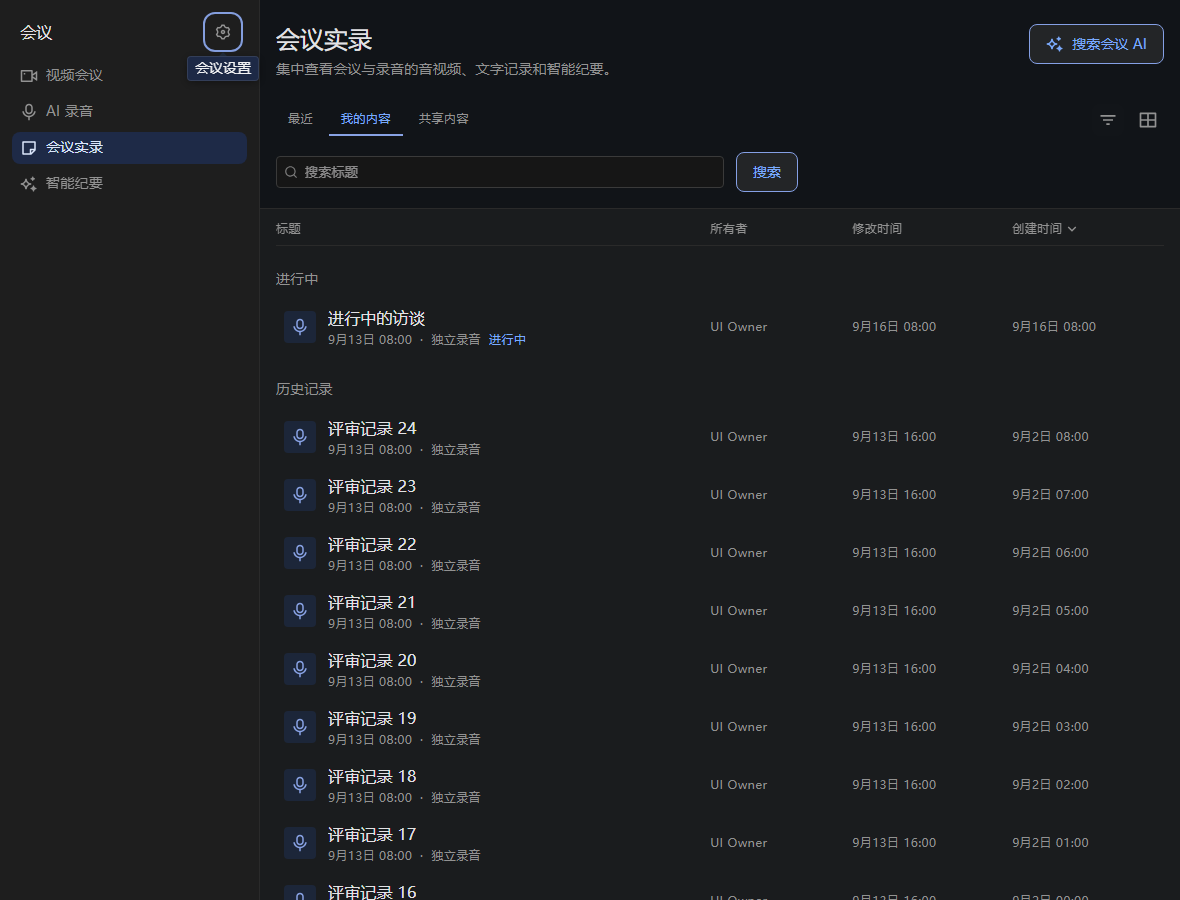
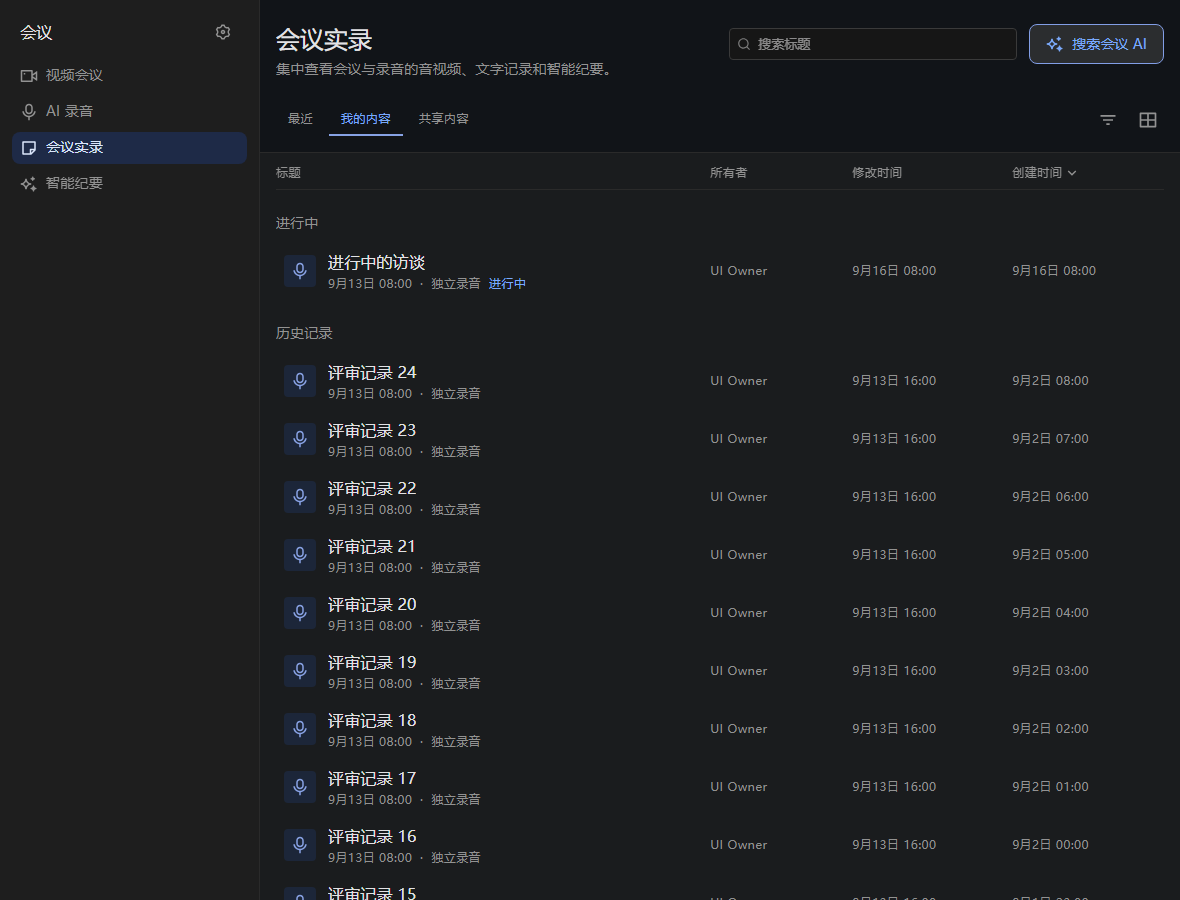
refactor(meetings): move the library search into the header row
会议实录 / 智能纪要的搜索框从「固定区第二行」搬进页头动作行,紧挨「搜索会议 AI」
左侧;「搜索」按钮删掉,提交改为回车(表单提交)。清空输入即撤销关键词筛选,行为
不变。

- 宽屏钉 18rem、窄屏放开收缩:390px 下这一行正好是「输入框 + 搜索会议 AI」,
  不折行也不横向溢出;宽屏也不再把标题块挤成两三行。
- 筛选面板原先挂在搜索表单里(靠 flexBasis 占满一行),搜索框搬走后表单只剩一个
  输入,面板独立落到工具栏下方(flexBasis → marginBottom),开合与两个原生 select
  的钉高不变。
- 文案键 library.searchButton 保留:记录工作区的「搜索整份逐字稿」还在用它。

验证:走查新增四条断言(没有搜索按钮 / 输入框在 AI 按钮左侧且同一行 / 宽屏宽度
18rem 附近 / 回车发出带 q 的查询请求),实录与纪要各验一遍;vitest 160 文件
1033 条、lint / prettier / color / foundation / tsc / build 全绿;截图已更新。

diff --git a/src/frontend/src/features/meetings/routes/MeetingLibrary.tsx b/src/frontend/src/features/meetings/routes/MeetingLibrary.tsx
@@ -84,31 +84,31 @@ const toolbarScroll = css({
   overflowX: 'auto',
 })
 
-/** 搜索行:输入 + 提交。整行钉 14px,两个控件才落在同一档 32px 高度上。 */
-const searchRow = css({
-  display: 'flex',
-  flexWrap: 'wrap',
-  gap: 'md',
-  alignItems: 'center',
-  marginBottom: 'lg',
-  textStyle: 'bodyMedium',
-})
+/**
+ * 搜索框所在的表单(在页头动作行里)。只剩一个输入:提交靠回车 —— 原先那颗
+ * 「搜索」按钮已去掉,所以这里不写按钮,`role="search"` 给读屏一个地标。
+ */
+const searchForm = css({ display: 'flex', alignItems: 'center', minWidth: 0 })
 
 /**
- * 搜索框:窄屏撑满,宽屏**封顶 28rem**。铺满版式下不限宽的话,在 1600px 宽的
- * 窗口里输入框会被拉到近千像素,光标起点离内容区左缘太远,整行也失衡。
+ * 搜索框:宽屏钉 18rem(288px)—— 与「搜索会议 AI」并排后不再独占一行;28rem 会把
+ * 标题块挤成两三行。窄屏放开收缩:390px 下这一行是「输入框 + 搜索会议 AI」,输入框
+ * 让出空间 —— 不折行,也不横向溢出。
  */
-const searchBoxCls = css({ flex: '1 1 14rem', maxWidth: '28rem', minWidth: 0 })
+const searchBoxCls = css({
+  flex: { base: '0 1 18rem', md: '0 0 18rem' },
+  minWidth: 0,
+})
 
 /** 搜索词输入上限(沿用收口前那个 `<input maxLength={200}>`)。 */
 const SEARCH_MAX_LENGTH = 200
 
-/** 展开的筛选面板。 */
+/** 展开的筛选面板(独立于搜索表单,落在工具栏下方)。 */
 const filterPanel = css({
   display: 'flex',
   flexWrap: 'wrap',
   gap: 'lg',
-  flexBasis: '100%',
+  marginBottom: 'lg',
   padding: 'lg',
   borderRadius: 'card',
   backgroundColor: 'surface.default',
@@ -772,6 +772,30 @@ export function Library({
               </p>
             </div>
             <div className={headerActions}>
+              {/* 搜索框在动作行里、紧挨「搜索会议 AI」的左侧,**没有提交按钮**:
+                  回车即搜(清空输入即撤销筛选,见 onChange)。两个页面共用这一份。 */}
+              <form
+                className={searchForm}
+                role="search"
+                onSubmit={(event) => {
+                  event.preventDefault()
+                  setQuery(search.trim())
+                }}
+              >
+                <SearchBox
+                  className={searchBoxCls}
+                  value={search}
+                  onChange={(value) => {
+                    // SearchBox 不带 maxLength,受控值在这里截断,行为与收口前的
+                    // `<input maxLength={200}>` 一致(粘贴超长文本同样被截到 200)。
+                    const next = value.slice(0, SEARCH_MAX_LENGTH)
+                    setSearch(next)
+                    if (!next) setQuery('')
+                  }}
+                  placeholder={t('library.search')}
+                  ariaLabel={t('library.search')}
+                />
+              </form>
               {config?.search_ai?.enabled !== false && (
                 <Button
                   variant="secondary"
@@ -830,84 +854,62 @@ export function Library({
               </IconToggleButton>
             </div>
           </div>
-          <form
-            className={searchRow}
-            onSubmit={(event) => {
-              event.preventDefault()
-              setQuery(search.trim())
-            }}
-          >
-            <SearchBox
-              className={searchBoxCls}
-              value={search}
-              onChange={(value) => {
-                // SearchBox 不带 maxLength,受控值在这里截断,行为与收口前的
-                // `<input maxLength={200}>` 一致(粘贴超长文本同样被截到 200)。
-                const next = value.slice(0, SEARCH_MAX_LENGTH)
-                setSearch(next)
-                if (!next) setQuery('')
-              }}
-              placeholder={t('library.search')}
-              ariaLabel={t('library.search')}
-            />
-            <Button type="submit" variant="secondary" size="action">
-              {t('library.searchButton')}
-            </Button>
-            {showFilters && (
-              <div className={filterPanel}>
-                <label className={filterLabel}>
-                  {t('library.scopeLabel')}
-                  <select
-                    className={filterSelect}
-                    value={scope}
-                    onChange={(event) =>
-                      setScope(
-                        event.target.value as MeetingRecordFilters['scope']
-                      )
-                    }
-                  >
-                    {(['recent', 'owned', 'participated', 'shared'] as const)
-                      .filter((value) => !minutes || value !== 'recent')
-                      .map((value) => (
-                        <option key={value} value={value}>
-                          {t(
-                            `${minutes ? 'minutesLibrary.scope' : 'library.scope'}.${value}`
-                          )}
-                        </option>
-                      ))}
-                  </select>
-                </label>
-                <label className={filterLabel}>
-                  {t('library.sourceLabel')}
-                  <select
-                    className={filterSelect}
-                    value={source}
-                    onChange={(event) =>
-                      setSource(
-                        event.target.value as
-                          | NonNullable<MeetingRecordFilters['source_type']>
-                          | ''
-                      )
-                    }
-                  >
-                    <option value="">{t('library.allSources')}</option>
-                    {(
-                      [
-                        'meeting',
-                        'recordings',
-                        'audio_recording',
-                        'upload',
-                      ] as const
-                    ).map((value) => (
+          {/* 筛选面板留在工具栏下面:它原先挂在搜索表单里(靠 flexBasis 占满一行),
+              搜索框搬进页头之后表单只剩一个输入,面板就跟着独立出来。 */}
+          {showFilters && (
+            <div className={filterPanel}>
+              <label className={filterLabel}>
+                {t('library.scopeLabel')}
+                <select
+                  className={filterSelect}
+                  value={scope}
+                  onChange={(event) =>
+                    setScope(
+                      event.target.value as MeetingRecordFilters['scope']
+                    )
+                  }
+                >
+                  {(['recent', 'owned', 'participated', 'shared'] as const)
+                    .filter((value) => !minutes || value !== 'recent')
+                    .map((value) => (
                       <option key={value} value={value}>
-                        {t(`library.source.${value}`)}
+                        {t(
+                          `${minutes ? 'minutesLibrary.scope' : 'library.scope'}.${value}`
+                        )}
                       </option>
                     ))}
-                  </select>
-                </label>
-              </div>
-            )}
-          </form>
+                </select>
+              </label>
+              <label className={filterLabel}>
+                {t('library.sourceLabel')}
+                <select
+                  className={filterSelect}
+                  value={source}
+                  onChange={(event) =>
+                    setSource(
+                      event.target.value as
+                        | NonNullable<MeetingRecordFilters['source_type']>
+                        | ''
+                    )
+                  }
+                >
+                  <option value="">{t('library.allSources')}</option>
+                  {(
+                    [
+                      'meeting',
+                      'recordings',
+                      'audio_recording',
+                      'upload',
+                    ] as const
+                  ).map((value) => (
+                    <option key={value} value={value}>
+                      {t(`library.source.${value}`)}
+                    </option>
+                  ))}
+                </select>
+              </label>
+            </div>
+          )}
         </div>
         <div className={listRegion} data-testid="meeting-list-region">
           {grid ? (

diff --git a/src/frontend/src/features/meetings/routes/MeetingLibrary.test.tsx b/src/frontend/src/features/meetings/routes/MeetingLibrary.test.tsx
@@ -58,6 +58,12 @@ afterEach(() => {
   vi.clearAllMocks()
 })
 
+/** 搜索框没有提交按钮了:回车(表单提交)是唯一的提交方式。 */
+const submitSearch = () =>
+  fireEvent.submit(
+    screen.getByLabelText('library.search').closest('form') as HTMLFormElement
+  )
+
 it('pins ongoing records separately and follows the exact opaque archive cursor', async () => {
   show()
   expect(
@@ -98,7 +104,7 @@ it('keeps upload and participation filters available and clears a submitted sear
   fireEvent.change(screen.getByLabelText('library.search'), {
     target: { value: 'Project' },
   })
-  fireEvent.click(screen.getByRole('button', { name: 'library.searchButton' }))
+  submitSearch()
   await waitFor(() =>
     expect(
       vi.mocked(fetchApi).mock.calls.some(([path]) => {
@@ -174,7 +180,7 @@ it('minutes opens the summary reader and filters ownership on the server', async
   fireEvent.change(screen.getByLabelText('library.search'), {
     target: { value: '  title & 中文  ' },
   })
-  fireEvent.click(screen.getByRole('button', { name: 'library.searchButton' }))
+  submitSearch()
   await waitFor(() =>
     expect(
       vi

diff --git a/CHANGELOG.md b/CHANGELOG.md
@@ -112,6 +112,8 @@ and this project adheres to
 - 🩹(frontend) keep the task filter toolbar on one horizontally scrollable row
 - 🩹(frontend) anchor the task toolbar menus with fixed coordinates so the
   scrollable row cannot clip them
+- ♻(frontend) move the meeting records search into the header action row and
+  drop the separate search button
 
 ## [1.16.0] - 2026-05-13
 
